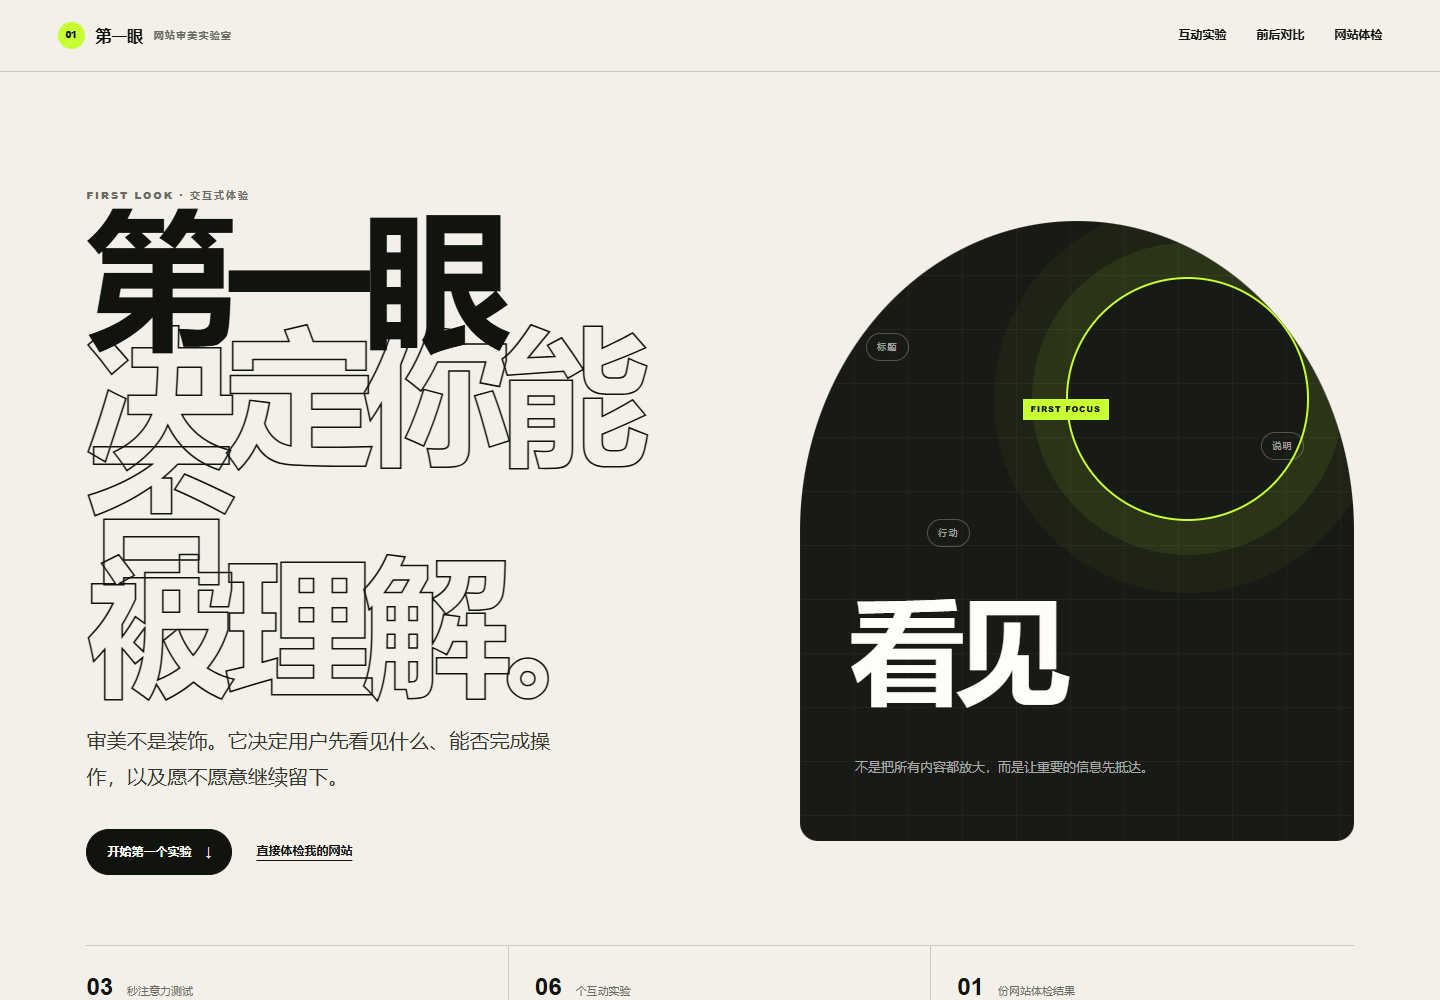
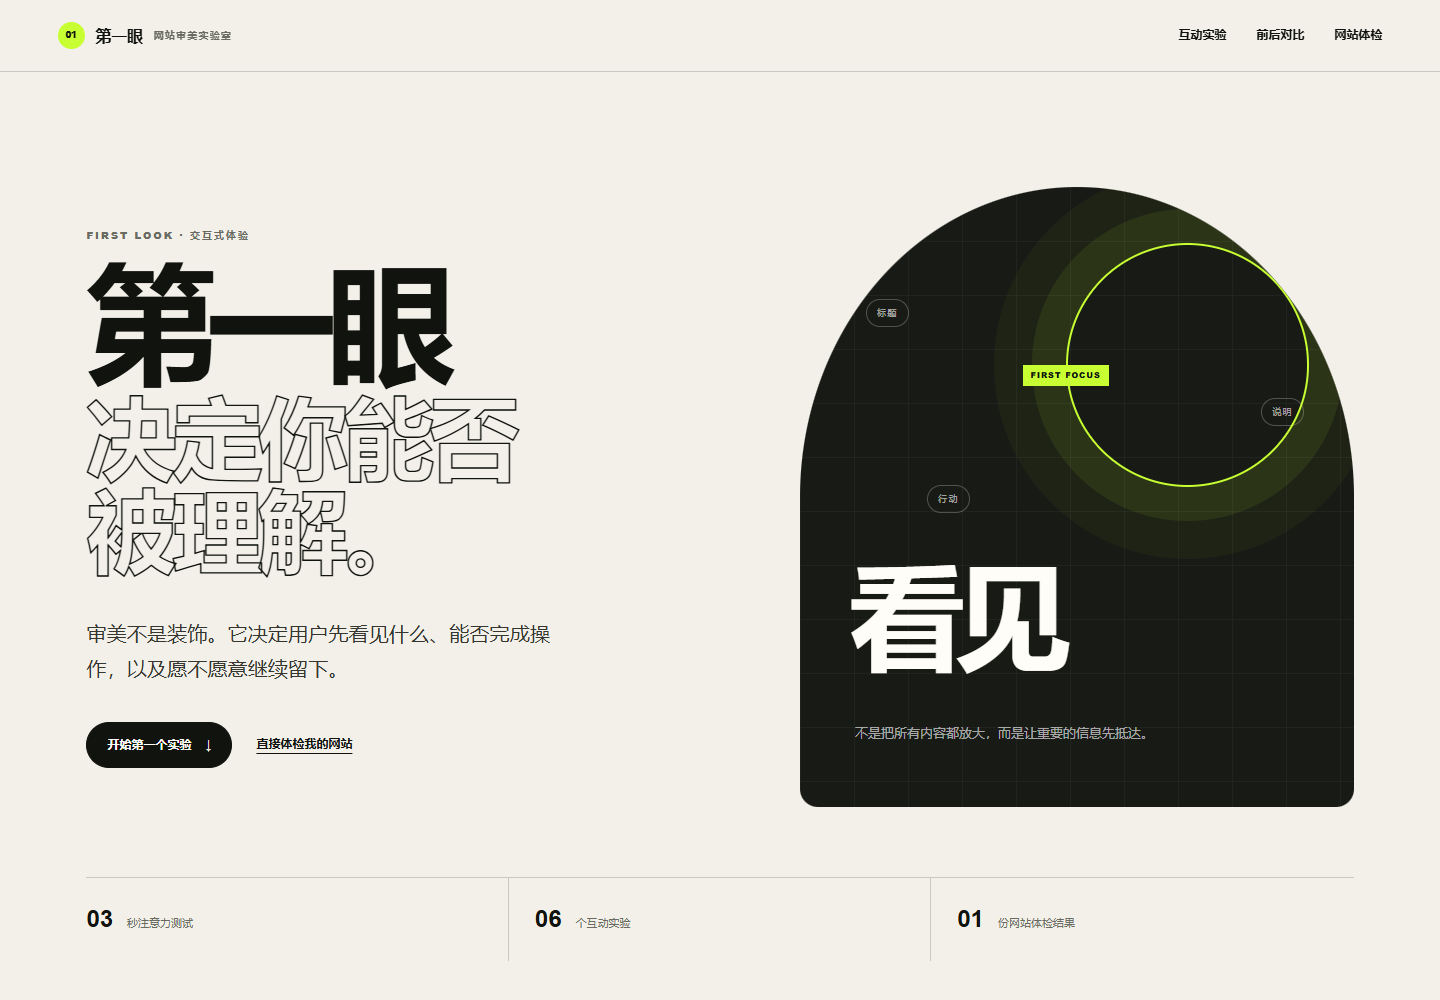
Refine hero spacing and add horizontal experiment carousel

diff --git a/style.css b/style.css
@@ -49,8 +49,8 @@ button:focus-visible, a:focus-visible, input:focus-visible { outline: 3px solid 
 
 .hero { min-height: calc(100vh - 72px); display: flex; flex-direction: column; justify-content: space-between; padding-top: clamp(70px,8vw,120px); }
 .hero-grid { display: grid; grid-template-columns: 1.05fr .95fr; gap: clamp(36px,7vw,120px); align-items: center; }
-.hero h1 { margin: 22px 0 0; font-size: clamp(76px,10.4vw,170px); line-height: .77; letter-spacing: -.08em; }
-.hero h1 span { color: transparent; -webkit-text-stroke: 1.5px var(--ink); }
+.hero h1 { margin: 28px 0 0; font-size: clamp(72px,9vw,146px); line-height: .86; letter-spacing: -.075em; }
+.hero h1 span { display: block; margin-top: .13em; color: transparent; -webkit-text-stroke: 1.35px var(--ink); font-size: .7em; line-height: 1.02; letter-spacing: -.055em; }
 .hero-lead { max-width: 500px; margin: 38px 0 0; color: #34362f; font-size: clamp(16px,1.4vw,21px); line-height: 1.75; }
 .hero-actions { display: flex; align-items: center; gap: 24px; margin-top: 34px; }
 .button { display: inline-flex; align-items: center; justify-content: center; gap: 14px; min-height: 46px; padding: 0 20px; border: 1px solid var(--ink); border-radius: 999px; text-decoration: none; font-size: 12px; font-weight: 800; cursor: pointer; transition: transform .22s ease, background .22s ease, color .22s ease; }
@@ -81,14 +81,31 @@ button:focus-visible, a:focus-visible, input:focus-visible { outline: 3px solid 
 .manifesto-copy ul { list-style: none; margin: 0; padding: 0; border-top: 1px solid var(--line); }
 .manifesto-copy li { padding: 16px 0; border-bottom: 1px solid var(--line); font-size: 15px; font-weight: 800; }
 
-.labs { background: var(--white); }
-.lab { display: grid; grid-template-columns: minmax(220px,.55fr) 1.45fr; gap: clamp(32px,7vw,110px); padding: clamp(70px,8vw,118px) 0; border-top: 1px solid var(--line); }
-.lab:last-child { border-bottom: 1px solid var(--line); }
-.lab-intro { display: grid; grid-template-columns: 46px 1fr; gap: 20px; align-content: start; position: sticky; top: 120px; align-self: start; }
+.labs { overflow: hidden; background: var(--white); }
+.labs .section-heading { margin-bottom: clamp(44px,5vw,72px); }
+.lab-carousel { position: relative; min-width: 0; }
+.lab-viewport { overflow: hidden; min-width: 0; transition: height .48s var(--ease); }
+.lab-track { display: flex; align-items: flex-start; width: 100%; touch-action: pan-y; transition: transform .62s var(--ease); will-change: transform; }
+.lab { display: grid; flex: 0 0 100%; grid-template-columns: minmax(220px,.55fr) 1.45fr; gap: clamp(32px,7vw,110px); min-width: 0; padding: 0 0 8px; }
+.lab[aria-hidden="true"] { pointer-events: none; }
+.lab-intro { display: grid; grid-template-columns: 46px 1fr; gap: 20px; align-content: start; align-self: start; padding-top: 4px; }
 .lab-index { display: grid; place-items: center; width: 40px; height: 40px; border: 1px solid var(--ink); border-radius: 50%; font-size: 10px; font-weight: 800; }
 .lab-intro h3 { margin: 10px 0 16px; font-size: clamp(30px,3.2vw,52px); line-height: 1; letter-spacing: -.05em; }
 .lab-intro div > p:last-child { max-width: 330px; margin: 0; color: var(--muted); font-size: 13px; }
 .lab-panel { min-width: 0; border: 1px solid var(--line); border-radius: var(--radius); background: var(--paper); overflow: hidden; }
+.lab-carousel-controls { display: grid; grid-template-columns: auto 1fr auto auto; gap: 18px; align-items: center; margin-top: 32px; padding-top: 24px; border-top: 1px solid var(--line); }
+.lab-arrow { display: grid; place-items: center; width: 48px; height: 48px; border: 1px solid var(--ink); border-radius: 50%; color: var(--ink); background: transparent; cursor: pointer; font-size: 20px; transition: color .22s ease,background .22s ease,opacity .22s ease; }
+.lab-arrow:hover:not(:disabled) { background: var(--acid); }
+.lab-arrow:disabled { opacity: .22; cursor: default; }
+.lab-pagination { display: grid; grid-template-columns: repeat(6,1fr); gap: 6px; }
+.lab-pagination button { position: relative; min-width: 0; padding: 14px 6px 10px; border: 0; color: var(--muted); background: transparent; text-align: left; cursor: pointer; }
+.lab-pagination button::before { content: ""; position: absolute; left: 0; right: 0; top: 0; height: 2px; background: var(--line); }
+.lab-pagination button::after { content: ""; position: absolute; left: 0; top: 0; width: 0; height: 2px; background: var(--acid); transition: width .45s var(--ease); }
+.lab-pagination button.is-active { color: var(--ink); }.lab-pagination button.is-active::after { width: 100%; }
+.lab-pagination b { display: block; margin-bottom: 4px; font-size: 10px; }.lab-pagination span { font-size: 9px; }
+.lab-position { display: flex; align-items: baseline; gap: 5px; margin: 0; white-space: nowrap; }
+.lab-position strong { font-size: 24px; line-height: 1; }.lab-position span { color: var(--muted); font-size: 10px; }.lab-position small { display: none; }
+.swipe-hint { margin: 14px 0 0; color: var(--muted); font-size: 10px; text-align: right; }
 
 .attention-stage { position: relative; min-height: 430px; }
 .test-page { position: absolute; inset: 0; padding: clamp(28px,5vw,70px); overflow: hidden; background: #ebe1ff; }
@@ -224,7 +241,7 @@ input[type="range"] { width: 100%; accent-color: var(--ink); }
   .section-heading > p:last-child { max-width: 550px; }
   .hero-grid, .manifesto-layout, .audit-grid { grid-template-columns: 1fr; }
   .hero-specimen { min-height: 560px; }
-  .lab { grid-template-columns: 1fr; }.lab-intro { position: static; }
+  .lab { grid-template-columns: 1fr; gap: 26px; }.lab-intro { position: static; }
   .contrast-panel, .response-panel { grid-template-columns: 1fr; }.range-control,.feedback-modes { border-left: 0; border-right: 0; border-top: 1px solid var(--line); }
   .audit-result { position: static; }
 }
@@ -233,14 +250,15 @@ input[type="range"] { width: 100%; accent-color: var(--ink); }
   .site-header { min-height: 62px; }.brand small { display: none; }.menu-toggle { display: block; }
   .site-nav { position: absolute; top: 62px; left: 0; right: 0; display: none; flex-direction: column; gap: 0; padding: 12px 22px 22px; border-bottom: 1px solid var(--line); background: var(--paper); }.site-nav.is-open { display: flex; }.site-nav a { padding: 12px 0; }
   .section-pad { padding-top: 78px; padding-bottom: 78px; }
-  .hero { min-height: auto; }.hero h1 { font-size: 16vw; }.hero-actions { align-items: flex-start; flex-direction: column; }.hero-specimen { min-height: 430px; border-radius: 45% 45% 12px 12px; }.hero-stats { grid-template-columns: 1fr; }.hero-stats div { border-right: 0; border-bottom: 1px solid var(--line); padding-left: 0!important; }
+  .hero { min-height: auto; }.hero h1 { font-size: 20vw; }.hero h1 span { font-size: .68em; }.hero-actions { align-items: flex-start; flex-direction: column; }.hero-specimen { min-height: 430px; border-radius: 45% 45% 12px 12px; }.hero-stats { grid-template-columns: 1fr; }.hero-stats div { border-right: 0; border-bottom: 1px solid var(--line); padding-left: 0!important; }
   .section-heading h2, .manifesto h2, .closing h2 { font-size: clamp(46px,15vw,72px); }
-  .manifesto-layout { margin-top: 40px; }.lab { padding: 65px 0; }.lab-intro { grid-template-columns: 40px 1fr; gap: 14px; }
+  .manifesto-layout { margin-top: 40px; }.labs.section-pad { padding-left: 16px; padding-right: 16px; }.lab { padding: 0; }.lab-intro { grid-template-columns: 40px 1fr; gap: 14px; }
   .attention-stage { min-height: 390px; }.test-page { padding: 28px 24px; }.test-page h4 { margin-top: 60px; }.test-price { bottom: 5%; }.shape-one { width: 220px; height: 220px; }
   .contrast-copy { font-size: 32px; }.range-control,.feedback-modes,.save-demo { padding: 28px 22px; }.spacing-panel,.hierarchy-panel,.control-panel { padding: 14px; }.spacing-sample.is-airy { padding: 38px 24px; }.hierarchy-sample { padding: 32px 24px; min-height: 500px; }.hierarchy-sample h4 { font-size: 46px; }
   .response-panel { min-height: auto; }.feedback-modes legend { padding-top: 0; }
   .demo-dialog { width: 86%; padding: 28px 22px; }.case-page { min-height: 610px; }.case-page header nav { display: none; }.case-page header button { display: block; border: 0; background: transparent; }.case-main { grid-template-columns: 1fr; min-height: 550px; padding: 38px 24px; align-content: start; }.case-copy h3 { font-size: 52px; }.case-object { position: absolute; width: 65%; right: -8%; bottom: 2%; }.case-page.is-before .case-object { width: 78%; top: 29%; }.case-page.is-before .case-price { bottom: 7%; }.case-findings { grid-template-columns: 1fr; }.case-findings div { border-right: 0; border-bottom: 1px solid rgba(255,255,255,.18); padding-left: 0!important; }
   .audit-list span { display: block; }.audit-list small { display: block; margin-top: 4px; text-align: left; }.site-footer { flex-direction: column; }
+  .lab-carousel-controls { grid-template-columns: auto 1fr auto; gap: 10px; }.lab-pagination { display: flex; justify-content: center; gap: 7px; }.lab-pagination button { width: 10px; height: 10px; padding: 0; border-radius: 50%; background: var(--line); }.lab-pagination button::before,.lab-pagination button::after,.lab-pagination b,.lab-pagination span { display: none; }.lab-pagination button.is-active { background: var(--acid); box-shadow: 0 0 0 1px var(--ink); }.lab-position { display: none; }.lab-arrow { width: 44px; height: 44px; }.swipe-hint { text-align: center; }
 }
 
 @media print {

diff --git a/index.html b/index.html
@@ -75,10 +75,13 @@
       <div class="section-heading reveal">
         <p class="section-no">01—06 / 互动实验</p>
         <h2 id="labs-title">不要相信结论，<br>亲手改变它。</h2>
-        <p>六个实验都使用同一原则：内容不变，只改变信息呈现方式。</p>
+        <p>六个实验左右切换。内容不变，只改变信息呈现方式。</p>
       </div>
 
-      <article class="lab lab-attention reveal" id="attentionLab">
+      <div class="lab-carousel reveal" id="labCarousel" role="region" aria-roledescription="轮播" aria-label="六个网站审美实验" tabindex="0">
+        <div class="lab-viewport" id="labViewport">
+          <div class="lab-track" id="labTrack">
+      <article class="lab lab-attention" id="attentionLab" data-lab-slide aria-hidden="false">
         <div class="lab-intro">
           <span class="lab-index">01</span>
           <div>
@@ -120,7 +123,7 @@
         </div>
       </article>
 
-      <article class="lab reveal">
+      <article class="lab" data-lab-slide aria-hidden="true">
         <div class="lab-intro">
           <span class="lab-index">02</span>
           <div>
@@ -143,7 +146,7 @@
         </div>
       </article>
 
-      <article class="lab reveal">
+      <article class="lab" data-lab-slide aria-hidden="true">
         <div class="lab-intro">
           <span class="lab-index">03</span>
           <div>
@@ -168,7 +171,7 @@
         </div>
       </article>
 
-      <article class="lab reveal">
+      <article class="lab" data-lab-slide aria-hidden="true">
         <div class="lab-intro">
           <span class="lab-index">04</span>
           <div>
@@ -194,7 +197,7 @@
         </div>
       </article>
 
-      <article class="lab reveal">
+      <article class="lab" data-lab-slide aria-hidden="true">
         <div class="lab-intro">
           <span class="lab-index">05</span>
           <div>
@@ -226,7 +229,7 @@
         </div>
       </article>
 
-      <article class="lab reveal">
+      <article class="lab" data-lab-slide aria-hidden="true">
         <div class="lab-intro">
           <span class="lab-index">06</span>
           <div>
@@ -261,6 +264,23 @@
           </div>
         </div>
       </article>
+          </div>
+        </div>
+        <div class="lab-carousel-controls">
+          <button class="lab-arrow" id="labPrev" type="button" aria-label="上一个实验"><span aria-hidden="true">←</span></button>
+          <div class="lab-pagination" role="group" aria-label="选择实验">
+            <button class="is-active" type="button" data-lab-target="0" aria-label="实验 1：三秒注意力"><b>01</b><span>注意力</span></button>
+            <button type="button" data-lab-target="1" aria-label="实验 2：对比度"><b>02</b><span>对比度</span></button>
+            <button type="button" data-lab-target="2" aria-label="实验 3：留白"><b>03</b><span>留白</span></button>
+            <button type="button" data-lab-target="3" aria-label="实验 4：视觉层级"><b>04</b><span>层级</span></button>
+            <button type="button" data-lab-target="4" aria-label="实验 5：响应反馈"><b>05</b><span>反馈</span></button>
+            <button type="button" data-lab-target="5" aria-label="实验 6：用户控制"><b>06</b><span>控制</span></button>
+          </div>
+          <p class="lab-position"><strong id="labCurrent">01</strong><span>/ 06</span><small id="labName">三秒注意力</small></p>
+          <button class="lab-arrow" id="labNext" type="button" aria-label="下一个实验"><span aria-hidden="true">→</span></button>
+        </div>
+        <p class="swipe-hint">点击箭头或章节编号切换，手机可左右滑动</p>
+      </div>
     </section>
 
     <section class="case-study section-pad" id="case" aria-labelledby="case-title">

diff --git a/app.js b/app.js
@@ -35,6 +35,69 @@
   }, { threshold: .12 });
   $$('.reveal').forEach(element => revealObserver.observe(element));
 
+  const labCarousel = $('#labCarousel');
+  const labViewport = $('#labViewport');
+  const labTrack = $('#labTrack');
+  const labSlides = $$('[data-lab-slide]');
+  const labTabs = $$('[data-lab-target]');
+  const labPrev = $('#labPrev');
+  const labNext = $('#labNext');
+  const labCurrent = $('#labCurrent');
+  const labName = $('#labName');
+  const labNames = ['三秒注意力', '对比度', '留白', '视觉层级', '响应反馈', '用户控制'];
+  let activeLab = 0;
+  let swipeStartX = 0;
+  let swipeStartY = 0;
+
+  function syncLabHeight() {
+    labViewport.style.height = `${labSlides[activeLab].offsetHeight}px`;
+  }
+
+  function showLab(index, focus = false) {
+    activeLab = Math.max(0, Math.min(labSlides.length - 1, index));
+    labTrack.style.transform = `translate3d(-${activeLab * 100}%,0,0)`;
+    labSlides.forEach((slide, slideIndex) => {
+      const isActive = slideIndex === activeLab;
+      slide.setAttribute('aria-hidden', String(!isActive));
+      slide.inert = !isActive;
+    });
+    labTabs.forEach((tab, tabIndex) => {
+      const isActive = tabIndex === activeLab;
+      tab.classList.toggle('is-active', isActive);
+      if (isActive) tab.setAttribute('aria-current', 'step');
+      else tab.removeAttribute('aria-current');
+    });
+    labPrev.disabled = activeLab === 0;
+    labNext.disabled = activeLab === labSlides.length - 1;
+    labCurrent.textContent = String(activeLab + 1).padStart(2, '0');
+    labName.textContent = labNames[activeLab];
+    requestAnimationFrame(syncLabHeight);
+    if (focus) labCarousel.focus({ preventScroll: true });
+  }
+
+  labPrev.addEventListener('click', () => showLab(activeLab - 1));
+  labNext.addEventListener('click', () => showLab(activeLab + 1));
+  labTabs.forEach(tab => tab.addEventListener('click', () => showLab(Number(tab.dataset.labTarget))));
+  labCarousel.addEventListener('keydown', event => {
+    if (event.key === 'ArrowLeft') { event.preventDefault(); showLab(activeLab - 1); }
+    if (event.key === 'ArrowRight') { event.preventDefault(); showLab(activeLab + 1); }
+  });
+  labViewport.addEventListener('touchstart', event => {
+    if (event.target.closest('button,input,label')) return;
+    swipeStartX = event.changedTouches[0].clientX;
+    swipeStartY = event.changedTouches[0].clientY;
+  }, { passive: true });
+  labViewport.addEventListener('touchend', event => {
+    if (!swipeStartX) return;
+    const deltaX = event.changedTouches[0].clientX - swipeStartX;
+    const deltaY = event.changedTouches[0].clientY - swipeStartY;
+    swipeStartX = 0;
+    if (Math.abs(deltaX) > 48 && Math.abs(deltaX) > Math.abs(deltaY)) showLab(activeLab + (deltaX < 0 ? 1 : -1));
+  }, { passive: true });
+  addEventListener('resize', syncLabHeight);
+  new ResizeObserver(syncLabHeight).observe(labSlides[0]);
+  showLab(0);
+
   const attentionCover = $('#attentionCover');
   const attentionStage = $('#attentionStage');
   const attentionCount = $('#attentionCount');

diff --git a/README.md b/README.md
@@ -20,6 +20,7 @@ https://rikka060921.github.io/first-look-web-lab/
 ## 操作方式
 
 - 页面使用正常滚动浏览，不接管用户滚轮。
+- 六个实验通过左右箭头、章节编号、键盘方向键或手机左右滑动切换。
 - 每个实验均可独立操作并立即查看结果。
 - 网站体检结果保存在当前设备，可随时清空。
 - 点击“打印结果”可获得适合打印或另存为 PDF 的体检页。

diff --git a/内容与设计说明.md b/内容与设计说明.md
@@ -24,7 +24,7 @@
 ## 用户控制
 
 - 页面使用浏览器原生滚动，不强制逐屏切换。
-- 所有实验都可以重复、切换或跳过。
+- 六个实验集中在同一个横向章节中，可以通过箭头、章节编号、键盘或触屏手势自由切换。
 - 声明网站体检结果只保存在当前设备。
 - 支持清空结果、打印结果和返回顶部。
 - 对减少动态效果的系统设置提供支持。

diff --git a/交付清单.md b/交付清单.md
@@ -5,6 +5,7 @@
 - 可在线访问的响应式单页网站
 - 可在本地直接打开的独立项目文件
 - 六个互动实验
+- 实验左右滑动与章节导航
 - 调整前后对比案例
 - 网站体检与评分功能
 - 体检结果打印版
